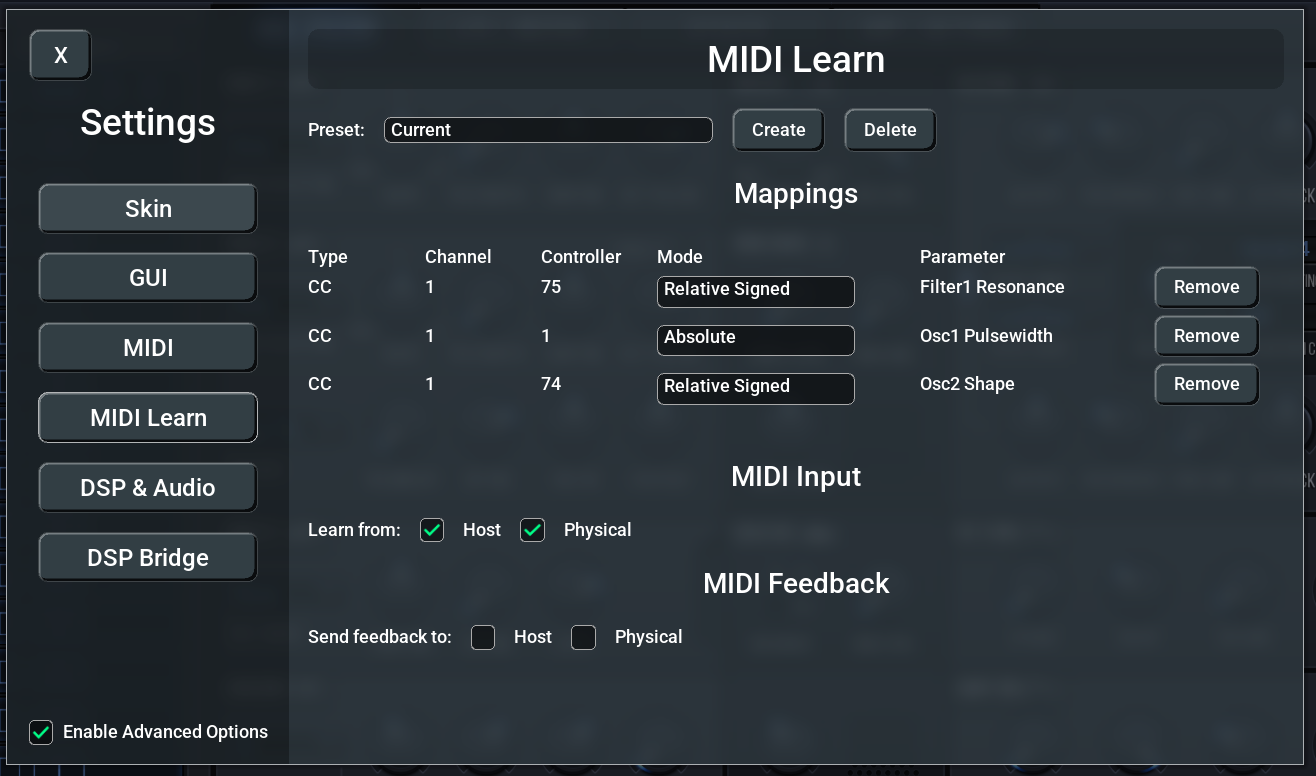
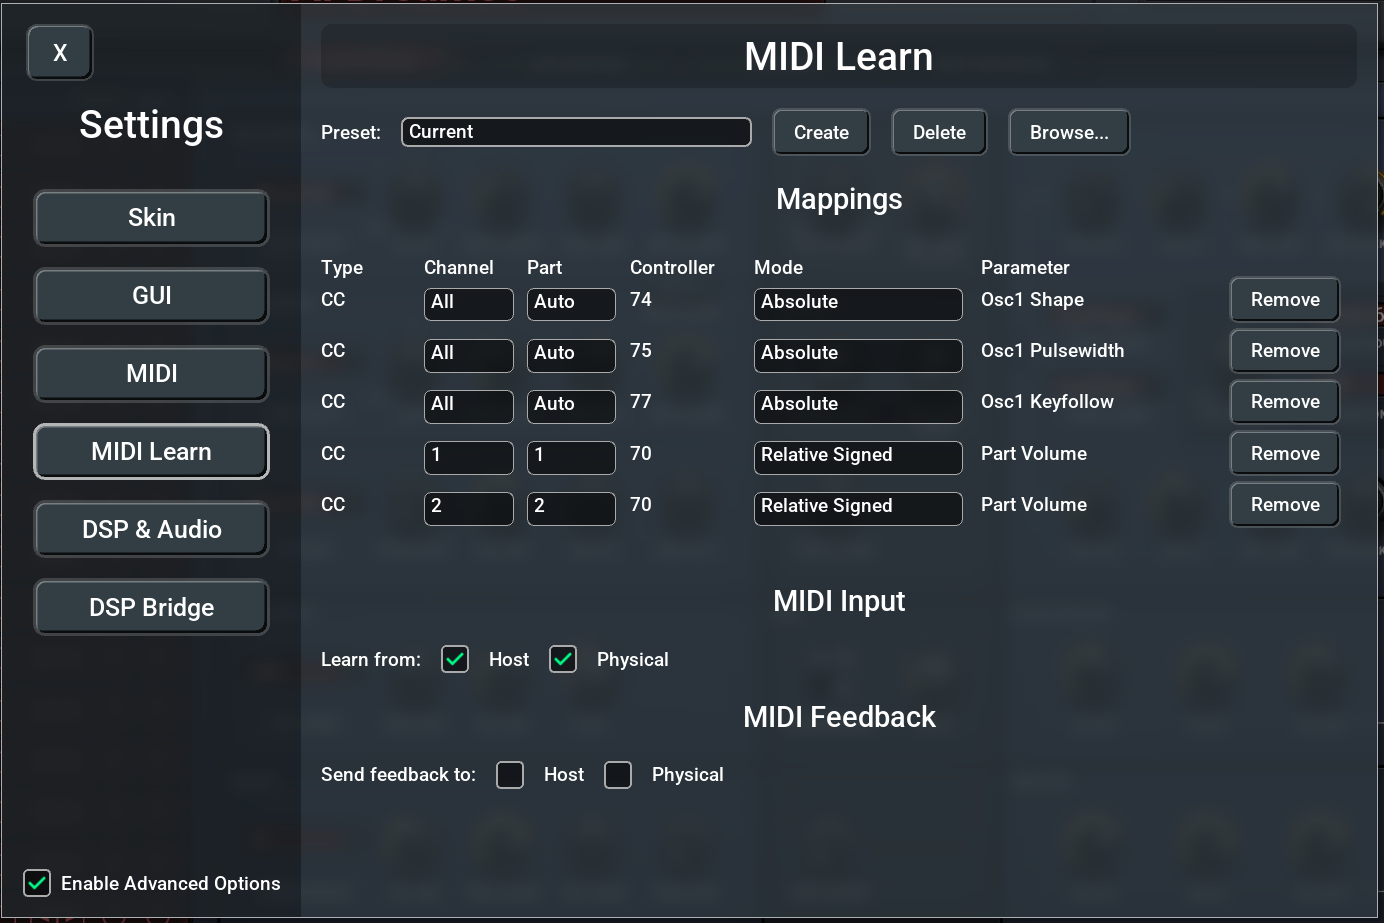
Update MIDI Learn docs with channel and part filtering features
- Add Channel and Part section documenting the new per-mapping controls
- Channel: All (default) or specific 1-16 for MIDI channel filtering
- Part: Auto (default) or specific 1-N for synth part targeting
- Document overlay filtering behavior and practical examples
- Update mappings table with new Part column
- Update screenshots to reflect new UI
- Add backward compatibility and defaults tips

Changed region(s): [[0.0, 0.0, 1.0, 1.0], [0.2181, 0.8041, 0.5296, 0.866], [0.5296, 0.7423, 0.6854, 0.8041]]

diff --git a/docs/midi-learn.md b/docs/midi-learn.md
@@ -17,6 +17,7 @@ Key features:
 - **Automatic detection** — Simply move a controller and the plugin figures out the MIDI message type and mode
 - **Multiple MIDI types** — Supports Control Change (CC), Pitch Bend, Channel Pressure (Aftertouch), and Poly Pressure
 - **Relative encoder support** — Two relative modes for endless rotary encoders
+- **Channel and part filtering** — Restrict mappings to a specific MIDI channel or synth part, or use the defaults to respond to all channels and auto-resolve parts
 - **Preset management** — Save and recall different controller mappings for different hardware setups
 - **Auto-save** — Mappings are automatically saved and restored when you reopen the plugin
 - **MIDI feedback** — Send parameter values back to your controller for motorized faders or LED rings
@@ -158,13 +159,50 @@ The mappings table shows all active MIDI-to-parameter assignments:
 | Column | Description |
 |--------|-------------|
 | **Type** | MIDI message type (CC, Pitch Bend, Chan Press, Poly Press) |
-| **Channel** | MIDI channel (1–16) |
+| **Channel** | MIDI channel filter (dropdown, editable — see [Channel and Part](#channel-and-part) below) |
+| **Part** | Target synth part (dropdown, editable — see [Channel and Part](#channel-and-part) below) |
 | **Controller** | CC number or note number (shown as "-" for Pitch Bend and Channel Pressure) |
 | **Mode** | Absolute, Relative Signed, or Relative Offset (dropdown, editable) |
 | **Parameter** | Target parameter name |
 | **Remove** | Delete this individual mapping |
 
-You can change the **Mode** of any mapping directly in the table by clicking the dropdown. This is useful if the auto-detection picked the wrong mode for your controller.
+You can change the **Mode**, **Channel**, and **Part** of any mapping directly in the table by clicking the respective dropdown. This is useful if the auto-detection picked the wrong mode for your controller, or if you want to fine-tune which MIDI channel a mapping responds to and which synth part it controls.
+
+### Channel and Part
+
+Each MIDI Learn mapping has a **Channel** and a **Part** setting that control how incoming MIDI messages are filtered and which synth part is affected.
+
+#### Channel
+
+The **Channel** dropdown determines which MIDI channel the mapping responds to:
+
+| Value | Behavior |
+|-------|----------|
+| **All** (default) | The mapping responds to MIDI messages on **any** channel (1–16) |
+| **1–16** | The mapping only responds to messages on the specified MIDI channel |
+
+New mappings default to **All**, meaning they will react to the mapped controller regardless of which MIDI channel it arrives on. Set a specific channel if you have multiple controllers on different channels and want independent control.
+
+#### Part
+
+The **Part** dropdown determines which synth part the mapping affects. This is particularly useful for multi-timbral setups where the synth has multiple parts:
+
+| Value | Behavior |
+|-------|----------|
+| **Auto** (default) | The target part is automatically resolved from the incoming MIDI channel. The plugin uses its internal channel-to-part routing to determine which part(s) to control. |
+| **1–N** | The mapping always targets the specified part, regardless of which MIDI channel the message arrives on. N is the total number of parts available in the synth. |
+
+New mappings default to **Auto**, which is the right choice for most setups — the same MIDI channel that plays notes on a part will also control that part's parameters via MIDI Learn.
+
+#### Overlay Filtering
+
+When MIDI Learn mode is active, the overlays respect the channel and part settings. Overlays are only shown for parts that match the mapping's channel and part configuration. Similarly, right-clicking to unlearn a mapping only removes it for the relevant part.
+
+#### Examples
+
+- **Simple setup (defaults):** Channel = All, Part = Auto. Your controller works on any channel and automatically targets the correct part. This is how mappings have always worked and remains the default.
+- **Multi-controller setup:** You have two MIDI controllers — one on channel 1, one on channel 2. Set Channel = 1 on mappings for the first controller and Channel = 2 for the second. Both can map the same CC number to different parameters without conflict.
+- **Fixed part control:** You always want a specific fader to control Part 3's filter cutoff, regardless of which MIDI channel is active. Set Part = 3 on that mapping.
 
 ### MIDI Input
 
@@ -193,5 +231,7 @@ Feedback always sends **absolute** values, even for parameters mapped in relativ
 - **Multiple mappings per parameter** — You can map the same parameter to multiple MIDI controllers
 - **One controller, one parameter** — Each MIDI controller (same type + channel + CC number) can only control one parameter at a time. Assigning it to a new parameter automatically removes the old mapping
 - **Encoder detection** — If your encoder isn't detected correctly, you can manually change the mode in the mappings table
+- **Channel and part defaults** — New mappings use All/Auto by default. You only need to set specific values if you have a multi-controller or multi-part setup
+- **Backward compatible** — Presets saved with older versions are loaded with Channel = All and Part = Auto, preserving their original behavior
 - **Preset portability** — Presets are saved as JSON files in the plugin's configuration directory and can be shared between instances
 - **Auto-save** — You don't need to manually save after learning. Mappings are saved automatically after every change
